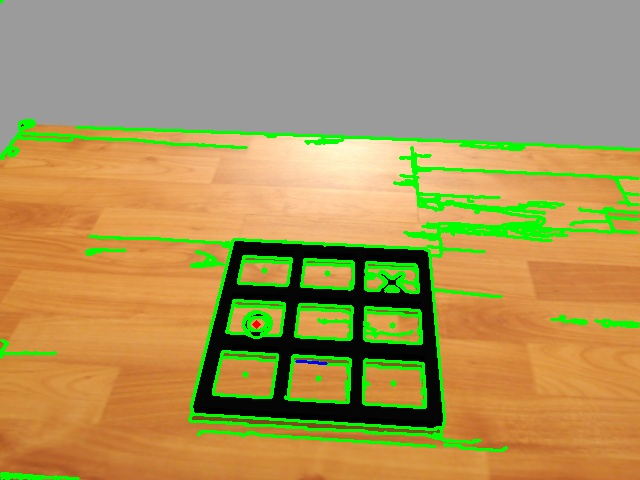
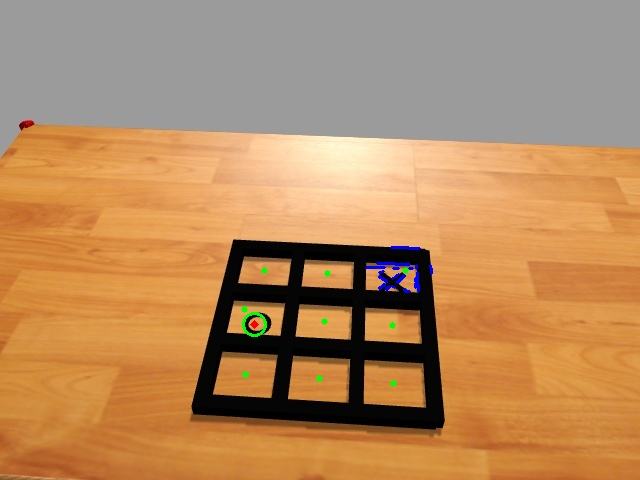
update

diff --git a/src/board_finder/script/board_vision.py b/src/board_finder/script/board_vision.py
@@ -68,6 +68,8 @@ def find_squares(img):
 
 def detectSquares(edges):
 	squares = []
+	kernel = cv2.getStructuringElement(cv2.MORPH_RECT, (7, 7))
+	#closed = cv2.morphologyEx(edges, cv2.MORPH_CLOSE, kernel)
 	contours, hierarchy = cv2.findContours(edges, cv2.RETR_CCOMP, cv2.CHAIN_APPROX_SIMPLE)
 	print('num contours '+str(len(contours)))
 	for cnt in contours:
@@ -91,23 +93,27 @@ def detectBoard(img, name=None):
 	#img = sobel(name)
 	gray = cv2.cvtColor(img,cv2.COLOR_BGR2GRAY)
 	#cv2.imwrite('sobel.jpg', img)
-	edges = cv2.Canny(gray,10,120,apertureSize = 3)
+	edges = cv2.Canny(gray,80,160,apertureSize = 3)
 	cv2.imwrite('cannylines.jpg', edges)
 	 
-	squares = detectSquares(edges)
+	temp = np.copy(edges)
+
+	squares = detectSquares(temp)
                       
 	if(squares == None):
 		print('did not find any squares')
-		return None, None     
+		return None
  
-	kernel = cv2.getStructuringElement(cv2.MORPH_RECT, (9, 9))
-	#closed = cv2.morphologyEx(edges, cv2.MORPH_CLOSE, kernel)
-	contours, hierarchy = cv2.findContours(edges, cv2.RETR_CCOMP, cv2.CHAIN_APPROX_SIMPLE)         
-	cv2.drawContours(img, contours, -1, (0, 255, 0), 2)
-	cv2.imwrite('squares.jpg', img)
+	#kernel = cv2.getStructuringElement(cv2.MORPH_RECT, (7, 7))
+	#closed = cv2.morphologyEx(edges[:], cv2.MORPH_CLOSE, kernel)
+	#contours, hierarchy = cv2.findContours(edges, cv2.RETR_CCOMP, cv2.CHAIN_APPROX_SIMPLE)         
+	#cv2.drawContours(img, contours, -1, (0, 255, 0), 2)
+	#cv2.imwrite('squares.jpg', img)
 	
 
 	outer, inner = isolateBoardSquares(squares)
+	print('outer')
+	print outer
 
 	#board = Board(squares[15], squares[0:15])
 	board = Board(outer, inner)
@@ -115,11 +121,12 @@ def detectBoard(img, name=None):
 	
 	maxRad = 0
 	if(board.innerSquares == None):
-		return None, None
+		return None
 		
 	for square in board.innerSquares:
 		maxRad = int(max(maxRad, getLongestDimension(square)))
-	maxRad = (maxRad / 2) + 1
+	maxRad = int((maxRad / 2) * 0.9)
+
 	
 	#cv2.circle(img, (squares[15][0][0], squares[15][0][1]), 3, (0, 255, 0), -1)
 	
@@ -127,13 +134,13 @@ def detectBoard(img, name=None):
 	#cv2.imwrite('contours.jpg', img)
 	
 	
-	for point in board.squareCenters:
-		print(point.x, point.y)
-		cv2.circle(img, (point.x, point.y), 3, (0, 255, 0), -1)
+	for cluster in board.squareCenters:
+		print(cluster.center.x, cluster.center.y)
+		cv2.circle(img, (cluster.center.x, cluster.center.y), 3, (0, 255, 0), -1)
 	cv2.imwrite('squarecenters.jpg', img)
 
 	#try dilation if does not work well
-	circles = cv2.HoughCircles(edges, cv2.cv.CV_HOUGH_GRADIENT, 1, 20, param1=50, param2=40, minRadius=0, maxRadius=maxRad)
+	circles = cv2.HoughCircles(edges, cv2.cv.CV_HOUGH_GRADIENT, 1, maxRad, param1=60, param2=30, minRadius=3, maxRadius=maxRad)
 	
 	if(circles == None):
 		print ("no circles found")
@@ -166,8 +173,11 @@ def detectBoard(img, name=None):
 
 
 	cv2.imwrite('houghlines2.jpg',img)
+
 	
-	return board.squareCenters, board.boardState
+
+	return board
+	#return centers, board.boardState
 
 	
 
@@ -175,29 +185,34 @@ def detectXs(board, lines, maxRad, img):
 	centers = board.getOpenCenters()
 	centerMap = defaultdict(list)
 	
-	proximity = maxRad * .5
+	proximity = maxRad * .7
 	
 	xLocations = np.zeros(9)
 	print(proximity)
-	print(centers[7][0].x, centers[7][0].y)
+
 
 	for x1,y1,x2,y2 in lines[0]:
 		p1 = Point(x1, y1)
 		p2 = Point(x2, y2)
 	
 		#print(p1.x, p1.y, p2.x, p2.y)
-		for center, index in centers:
+		for cluster, index in centers:
 			
 			#print(center.x, center.y)
-			if(p1.getDistance(center) <= proximity or p2.getDistance(center) <= proximity):
-				centerMap[index].append(LineSegment(p1, p2))
-				break;
+			if(cluster.centerFound == False):
+				if(p1.getDistance(cluster.center) <= maxRad or p2.getDistance(cluster.center) <= maxRad):
+					centerMap[index].append(LineSegment(p1, p2))
+			else:
+				if(p1.getDistance(cluster.center) <= proximity or p2.getDistance(cluster.center) <= proximity):
+					centerMap[index].append(LineSegment(p1, p2))
+					break;
 				
 	#print(centerMap)
-	minDist = 1
+	minDist = 4
+	minAngle = 15
 	
 	for center, lines in centerMap.iteritems():
-		if(center == 7):
+		if(center == 2):
 			for line in lines:
 				cv2.line(img,(line.point1.x,line.point1.y),(line.point2.x, line.point2.y),(255, 0, 0),2)
 	
@@ -219,9 +234,10 @@ def detectXs(board, lines, maxRad, img):
 					line.point2.getDistance(otherLine.point1) <= minDist or
 					line.point2.getDistance(otherLine.point2) <= minDist):
 					
-					count += 1
-					if(count == 3):
-						break;
+					if(line.getAngleDif(otherLine) > minAngle):
+						count += 1
+						if(count == 3):
+							break;
 						
 			if(count == 3):
 				break;
@@ -351,7 +367,7 @@ def contains(square1, square2):
 	return False
 
 def isolateBoardSquares(squares):
-
+	arealimit = 10000
 	biggest = None
 	index = 0
 	for square in squares:
@@ -365,7 +381,7 @@ def isolateBoardSquares(squares):
 				
 		index += 1
 		
-	if(biggest == None):
+	if(biggest == None or biggest[1] < arealimit):
 		return None, None
 		
 	del squares[biggest[2]]
@@ -388,11 +404,14 @@ def isolateBoardSquares(squares):
 			del squares[index]
 			
 		index = 0
+		area 
 		for square in squares:
 			newSquares = squares[:]
 			del newSquares[index]
 			if(containsNineSquares(square, newSquares)):
-				return isolateBoardSquares(squares)
+				if(area(square) > arealimit):
+					print 'another square contains nine'
+					return isolateBoardSquares(squares)
 			index += 1
 			
 		return biggest[0], squares

diff --git a/src/board_finder/script/boardFinder.py b/src/board_finder/script/boardFinder.py
@@ -7,8 +7,10 @@ from cv_bridge import CvBridge, CvBridgeError
 import board_vision
 from board_finder.msg import Kinect_Image
 from board_finder.msg import TicTacToe
+from Board import *
 
 publisher = None
+lastBoard = None
 
 def getWorldCoordinates(centers, coordinates):
 	worldCoordinates = []
@@ -20,6 +22,8 @@ def getWorldCoordinates(centers, coordinates):
 
 def callback(data):
 	print('callback')
+	global lastBoard
+
 	print(rospy.get_caller_id() + " "+ str(data.header.stamp))
 	bridge = CvBridge()
 	
@@ -35,18 +39,35 @@ def callback(data):
 	except:
 		print("Error writing image")
 		
-	centers, state = board_vision.detectBoard(img)
-	
-	if(centers == None or state == None):
+	board = board_vision.detectBoard(img)
+
+	if(board == None):
 		print('board could not be detected')
 		return
-	print state
+
+	if(lastBoard == None):
+		lastBoard = board
+		print('board moved, not computing')
+		return
+
+	if(lastBoard.outline != board.outline):
+		lastBoard = board
+		print('board moved, not computing')
+		return
+
+	lastBoard = board
+
+	centers = []	
+	for cluster in board.squareCenters:
+		centers.append(cluster.center)
+	
+	print board.state
 	centers = getWorldCoordinates(centers, data.xyz)
 	
 	result = TicTacToe()
 	result.header = data.header
 	result.centers = centers
-	result.state = state
+	result.state = board.state
 	
 	publisher.publish(result)
 	

diff --git a/src/board_finder/script/Board.py b/src/board_finder/script/Board.py
@@ -135,7 +135,7 @@ class Board():
 		orderedCenters = []
 		for cluster in clusters:
 			cluster.update()
-			orderedCenters.append(cluster.center)
+			orderedCenters.append(cluster)
 			
 
 		return orderedCenters
@@ -149,8 +149,8 @@ class Board():
 			
 			minDist = None
 			index = 0
-			for center in openCenters:
-				dist = p.getDistance(center)
+			for cluster in openCenters:
+				dist = p.getDistance(cluster.center)
 				if(minDist == None):
 					minDist = (dist, index)
 				else:
@@ -158,6 +158,9 @@ class Board():
 						minDist = (dist, index)
 				index += 1
 				
+			if(openCenters[minDist[1]].centerFound == False):
+				openCenters[minDist[1]].center = p
+
 			self.boardState[minDist[1]] = 1
 		print('boardstate')
 		print self.boardState

diff --git a/src/board_finder/script/LineSegment.py b/src/board_finder/script/LineSegment.py
@@ -64,14 +64,14 @@ class LineSegment():
 		if(dist < self.neighbor2[1]):
 			self.neighbor2 = (line, dist)
 		
-	#def getAngleDif(self, line2):
-	#	angle1 = self.getAngle()
-	#	angle2 = line2.getAngle()
-	#	
-	#	dif = angle2 - angle1
-	#	if(dif > math.pi):
-	#		dif =  -(dif - math.pi)
-	#	elif(dif < -math.pi):
-	#		dif = -(dif + math.pi)
+	def getAngleDif(self, line2):
+		angle1 = self.getAngle()
+		angle2 = line2.getAngle()
+		
+		dif = angle2 - angle1
+		if(dif > 180):
+			dif =  (dif - 180)
+		elif(dif < 0):
+			dif = (dif + 180)
 			
-	#	return dif
+		return dif

diff --git a/src/move_head/src/move_head.cpp b/src/move_head/src/move_head.cpp
@@ -70,9 +70,14 @@ public:
       //Looks at a point forward (x=5m), slightly right (y=-1m), and 1.2m up
       lookAt("base_link", 4.0, -1.0, .5);
     }
-	lookAt("base_link", 1.3, 0.0, .05);
+	lookAt("base_link", 1.3, 0.0, .04);
   }
 };
+
+  vod moveHeadDefaultPosition()
+  {
+    lookAt("base_link", 1.0, 0.0, .05);
+  }
 
 int main(int argc, char** argv)
 {
